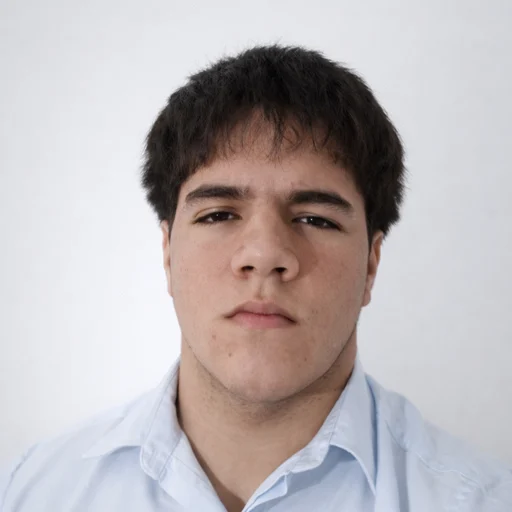
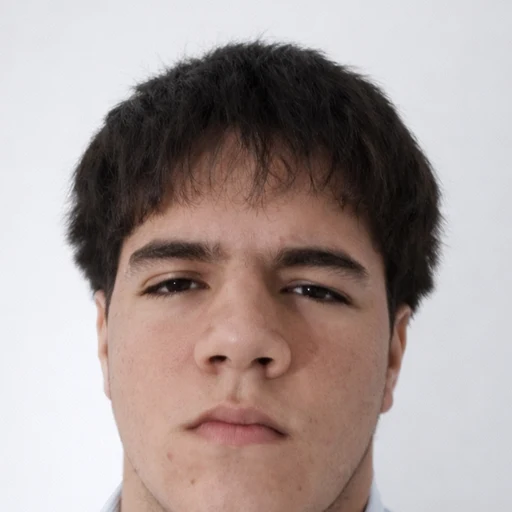
foto: recorte medido sobre la cara. fix: el badge de testimonios no pintaba
Foto
- El recorte anterior dejaba la cara en el 52% del cuadro y estaba corrida
  37px a la izquierda
- En vez de estimar a ojo, se midio la imagen: el pelo arranca en y=108, el
  cuello aparece en y=670, y la cabeza es mas ancha en y=402 con centro
  horizontal en x=549, no en 512
- Con eso el recorte pasa a 720x720 desde (189,43): la cara ocupa 74% del
  cuadro y queda centrada de verdad

Badge de testimonios
- `badge_color` venia de la base y se inyectaba crudo en className. Rago tenia
  "bg-electric-blue/20 text-blue-700", pero electric-blue no existe como
  token: la clase llegaba al HTML y no aparecia en el CSS, asi que el badge se
  veia sin fondo. Verificado en produccion, 0 ocurrencias en la hoja servida
- El problema de fondo era el contrato: cualquier string escrito en el panel
  podia romper el estilo sin avisar. Ahora la base elige un nombre corto
  (violeta, verde, amarillo, coral, negro) y el componente decide las clases
- Los valores viejos caen en el violeta de la marca. El peor caso pasa de "no
  se ve nada" a "no es el color que queria"
- Verificado que las 5 opciones existen en el CSS construido

diff --git a/brutal-ship/app/components/TestimonialsSection.tsx b/brutal-ship/app/components/TestimonialsSection.tsx
@@ -84,13 +84,37 @@ function Cita({ t, destacada }: { t: Testimonial; destacada: boolean }) {
                     </span>
                 </div>
                 {t.badge_text && (
-                    <span className={`self-start sm:self-auto px-3 py-1 rounded-full ${t.badge_color || "bg-primary/20 text-primary"} border-2 border-black text-xs font-bold uppercase tracking-wider shadow-neobrutalism-sm whitespace-nowrap`}>
+                    <span className={`self-start sm:self-auto px-3 py-1 rounded-full ${colorDeBadge(t.badge_color)} border-2 border-black text-xs font-bold uppercase tracking-wider shadow-neobrutalism-sm whitespace-nowrap`}>
                         {t.badge_text}
                     </span>
                 )}
             </figcaption>
         </figure>
     );
+}
+
+/**
+ * El badge tomaba `badge_color` de la base y lo metia crudo en className. Eso
+ * dejaba que un valor mal escrito rompiera el estilo sin avisar, y es lo que
+ * estaba pasando: Rago tenia "bg-electric-blue/20 text-blue-700", pero
+ * electric-blue no existe como token. La clase llegaba al HTML y no aparecia en
+ * el CSS, asi que el badge se veia sin fondo.
+ *
+ * Ahora la base elige un nombre corto y el componente decide las clases. Un
+ * valor viejo o desconocido cae en el violeta de la marca, que siempre es
+ * valido: el peor caso pasa a ser "no es el color que queria" en lugar de "no
+ * se ve nada".
+ */
+const COLORES_DE_BADGE: Record<string, string> = {
+    violeta: "bg-primary/20 text-primary",
+    verde: "bg-secondary/25 text-ink-black",
+    amarillo: "bg-accent-yellow/40 text-ink-black",
+    coral: "bg-hot-coral/25 text-ink-black",
+    negro: "bg-ink-black text-white",
+};
+
+function colorDeBadge(valor?: string | null): string {
+    return COLORES_DE_BADGE[(valor ?? "").trim().toLowerCase()] ?? COLORES_DE_BADGE.violeta;
 }
 
 function Garantias({ horizontal }: { horizontal: boolean }) {
